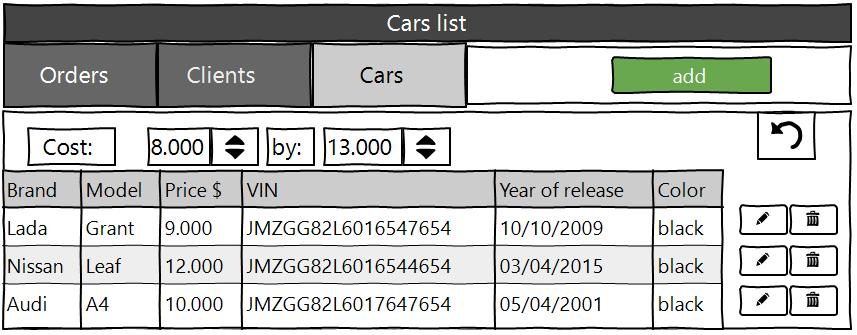
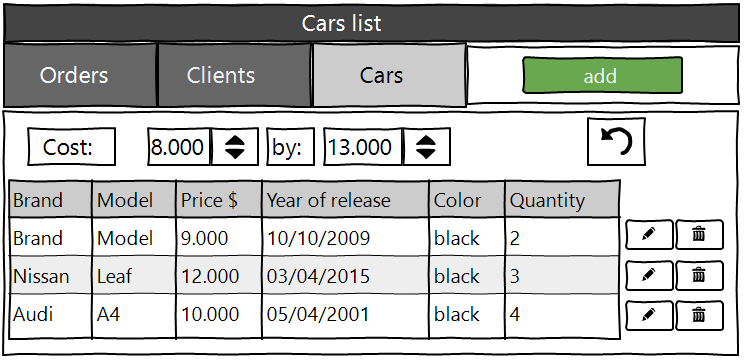
documentation2

diff --git a/documentation/Software Requirements Specification.md b/documentation/Software Requirements Specification.md
@@ -33,8 +33,9 @@ The mode is designed to view the list of orders, if it possible to display the n
 <br>Pic. 1.1 View the Orders list.
 
 The list displays the following columns:
+* VIN - Vehicle identification number; 
+* Car - information about the car;
 * Client  –  customer data;
-* Car - information about the car
 * Price – the total price of the car;
 * Add date – the date the order was added;
 
@@ -65,8 +66,9 @@ The list displays the following columns:
 <br>Pic. 1.2 Add order.
 
 ***When adding a order, the following details are entered:***
-* Client  – client data is stored in another table;
+* VIN - Vehicle identification number;
 * Car  – car data is stored in another table;
+* Client  – client data is stored in another table;
 * Price – filled in automatically when choosing a car;
 * Add date – date of adding order;
 
@@ -92,14 +94,16 @@ The list displays the following columns:
 <br>Pic. 1.3 Edit order.
 
 ***When editing a order, the following details are entered:***
-* Client  – client data is stored in another table;
+* VIN - Vehicle identification number;
 * Car  – car data is stored in another table;
+* Client  – client data is stored in another table;
 * Price – filled in automatically when choosing a car;
 * Add date – date of adding order;
 
 ***Constraints for data validation:***
-* Client  – client data is stored in another table; 
+* VIN - maximum length of 45 character;
 * Car  – car data is stored in another table;
+* Client  – client data is stored in another table; 
 * Price – numeric field of maximum length 45;
 * Add date – order add date in format dd/mm/yyyy.
 
@@ -240,9 +244,9 @@ This mode is intended for viewing and editing the cars list.
 * Brand  –  brand car; 
 * Model - car model;
 * Price - the price of the car;
-* VIN - Vehicle identification number;
-* Year of release - the year of the car 's release
-* Color - the color of the car
+* Year of release - the year of the car 's release;
+* Color - the color of the car;
+* Quantity - the number of cars;
 
 ***Filtering by cost:***
 * In the car list view mode, the user sets the cost filter and clicks the refresh list button (to the right of the cost entry field );
@@ -275,18 +279,18 @@ When adding a car, the following details are entered:
 * Brand - car brand;
 * Model - car model;
 * Price - the price of the car;
-* VIN - Vehicle identification number;
-* Year of release - the year of the car 's release
-* Color - the color of the car
+* Year of release - the year of the car 's release;
+* Color - the color of the car;
+* Quantity - the number of cars;
 
 Constraints for data validation:
 
 * Brand - maximum length of 45 character;
 * Model - maximum length of 45 character;
 * Price - numeric field maximum length 45;
-* VIN - maximum length of 45 character;
-* Year of release - date of creation in the format dd/mm/yyyy.
+* Year of release - date of creation in the format dd/mm/yyyy.;
 * Color - maximum length of 45 character;
+* Quantity - numeric field maximum length 45;
 
 
 ### 3.3 Edit car
